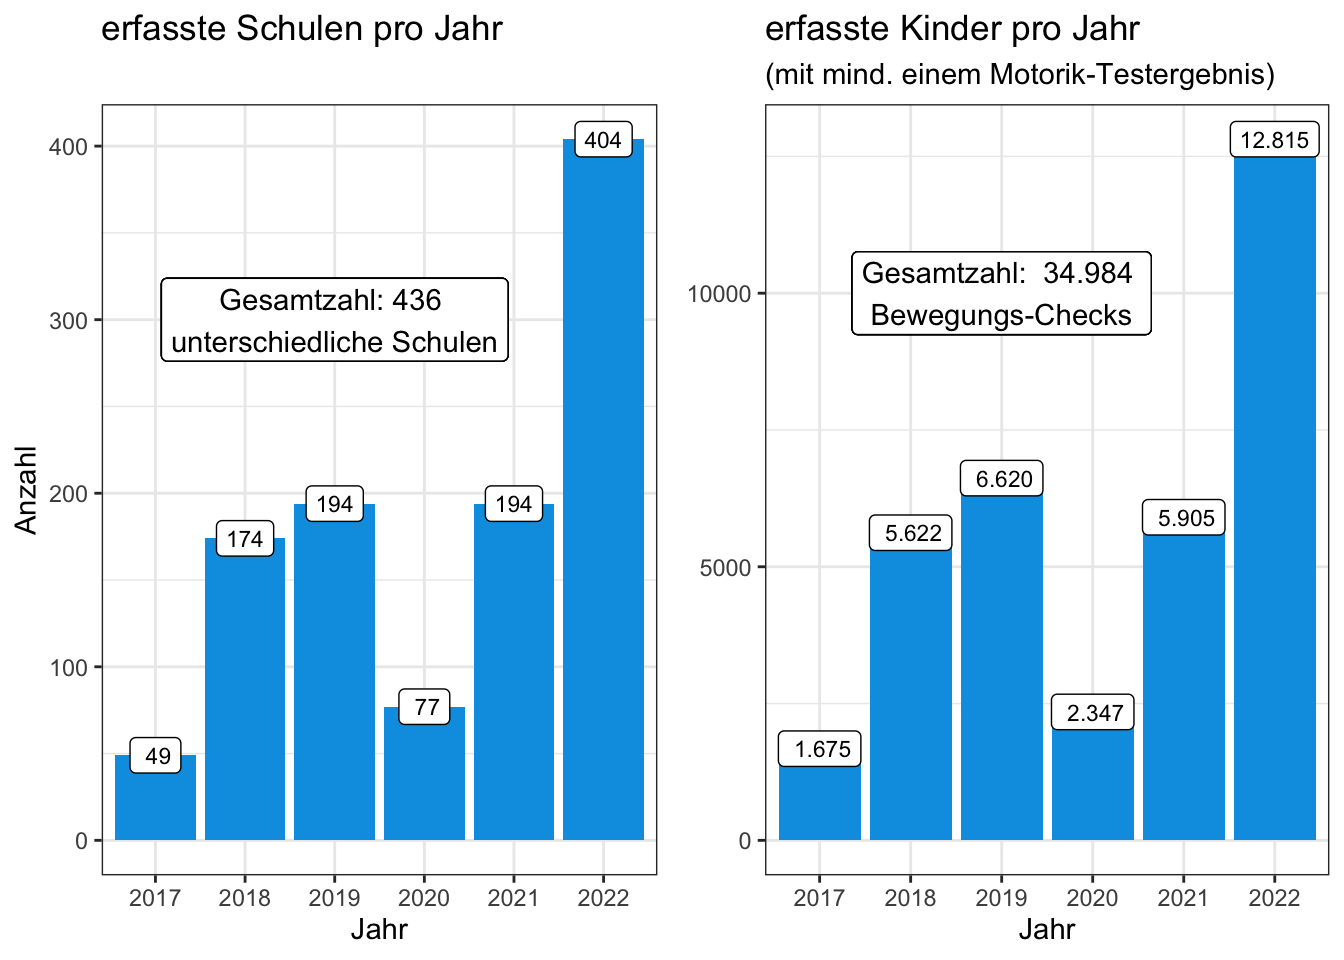
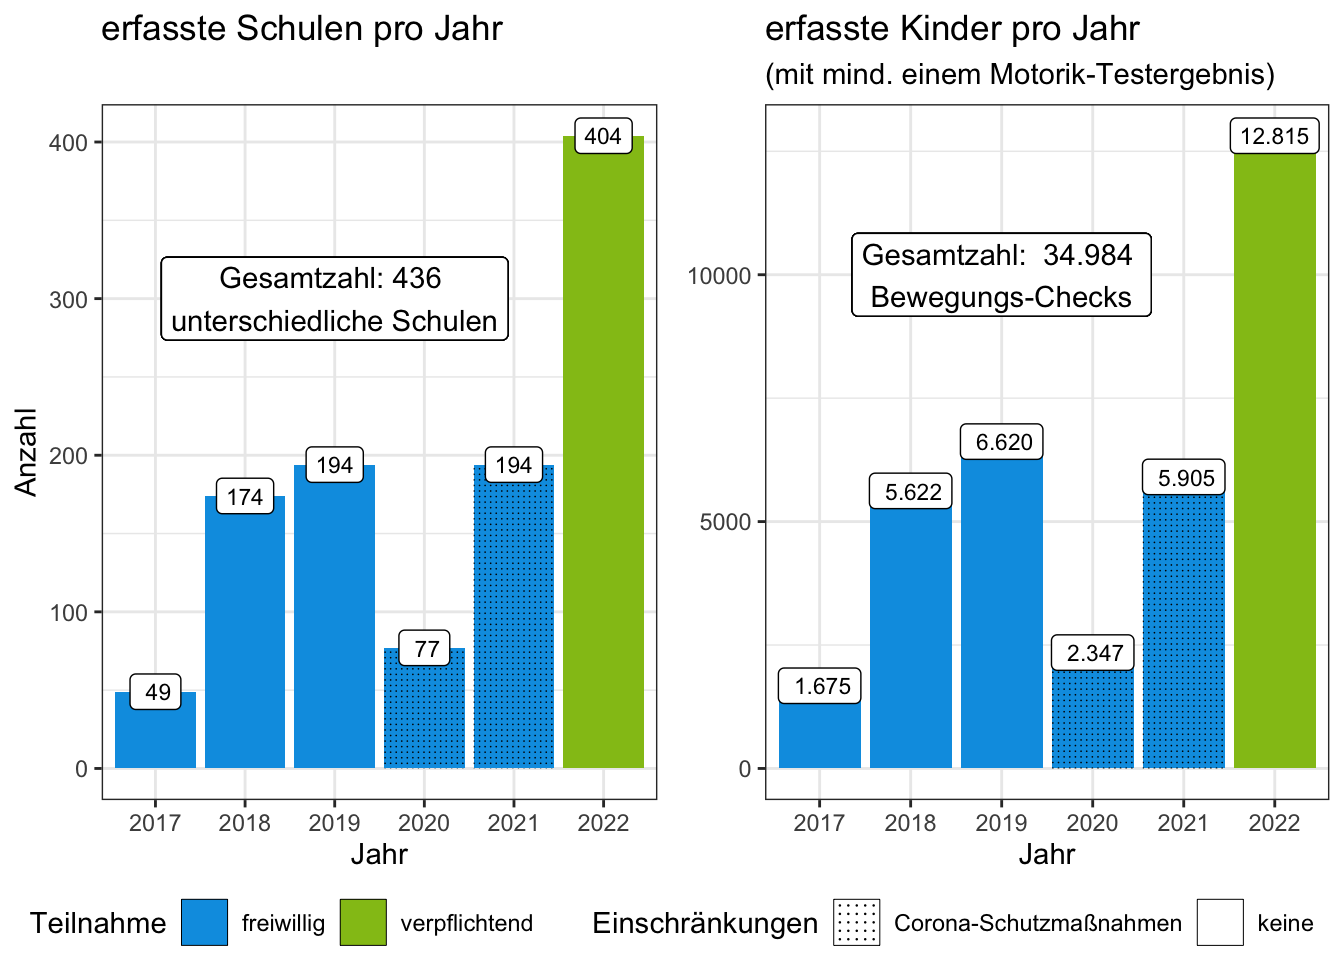
pattern

diff --git a/docs/001.html b/docs/001.html
@@ -255,7 +255,7 @@ ul.task-list li input[type="checkbox"] {
 <div id="quarto-appendix" class="default"><section id="aktualisierungen" class="level1 appendix"><h2 class="anchored quarto-appendix-heading">Aktualisierungen</h2><div class="quarto-appendix-contents">
 
 <ul>
-<li>2023-05-15: Zusammenfassung, Bemerkung zur Anzahl unterschiedlicher Kinder</li>
+<li>2023-05-15: Zusammenfassung, Bemerkung zur Anzahl unterschiedlicher Kinder, Corona-Schutzmaßnahmen, frewillige/verpflichtende Teilnahme</li>
 <li>2023-05-05: Aktualisierung der Abbildung nach Eintreffen weiterer Datensätze, Ausschluss von Datensätzen die kein einziges Motorik-Testergebnis enthalten (trotz Vorhandensein von z.B. Geschlechts- oder Geburtstagsangabe)</li>
 <li>2023-04-24: Aktualisierung der Abbildung nach Eintreffen weiterer Datensätze</li>
 <li>2023-03-09: Erstellen der Seite</li>
